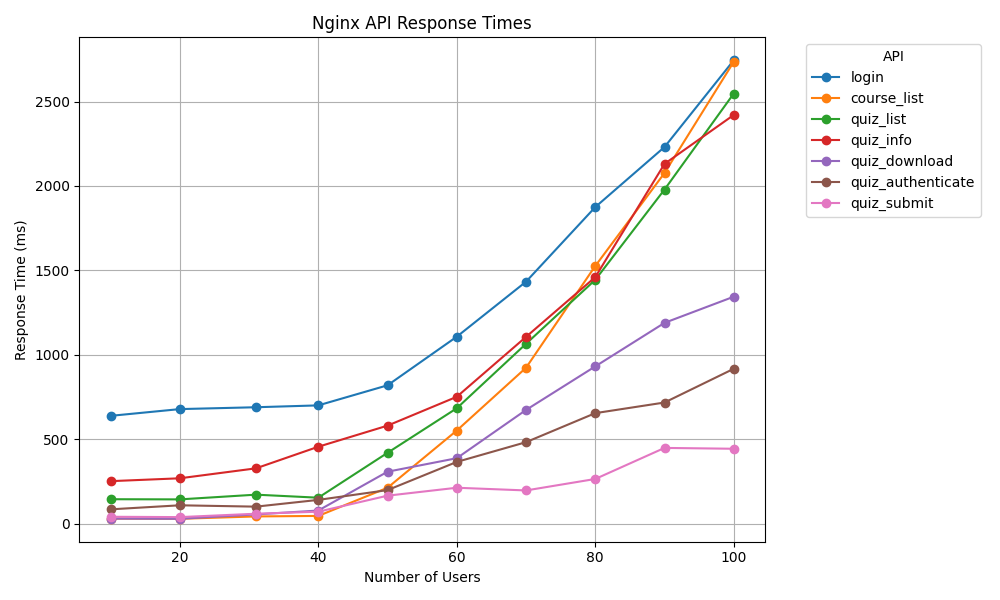
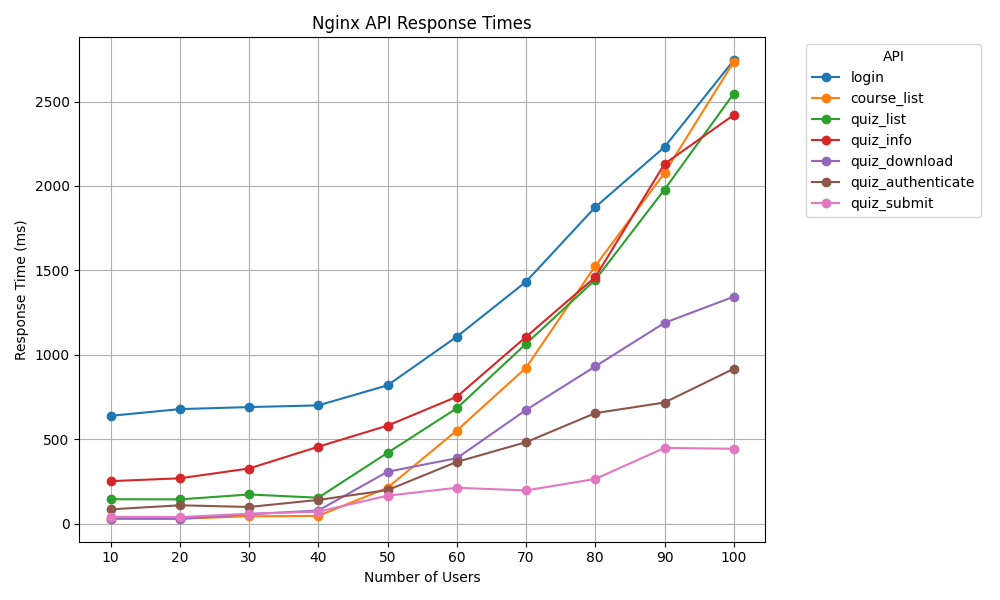
fixed the x_ticks

diff --git a/client_end_script/consolidated_results/data_plotter.py b/client_end_script/consolidated_results/data_plotter.py
@@ -20,8 +20,12 @@ def plot_response_times(csv_file, title, output_file):
     plt.ylabel('Response Time (ms)')
     plt.legend(title="API", bbox_to_anchor=(1.05, 1), loc='upper left')
     plt.grid(True)
-    plt.tight_layout()
+
+    # Set the x-ticks to be the number of users
+    plt.xticks(num_users)
     
+    plt.tight_layout()
+
     # Save the plot to the specified output file
     plt.savefig(output_file)
     plt.close()  # Close the figure to free memory
